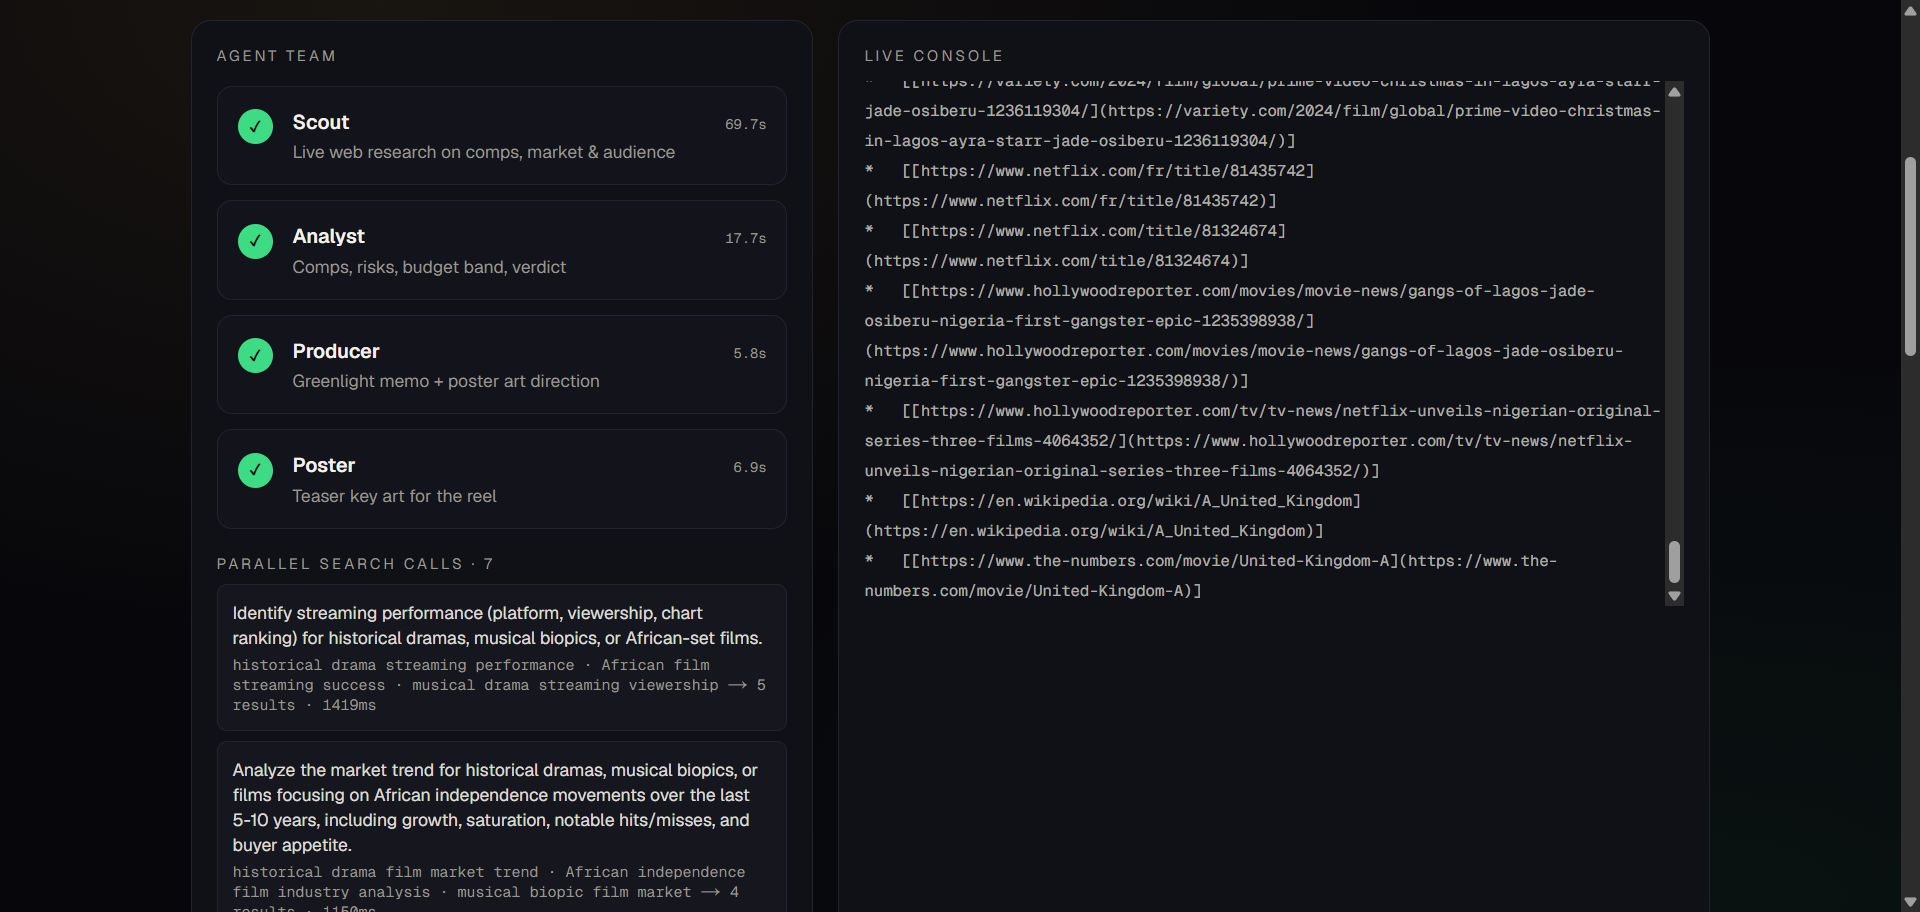
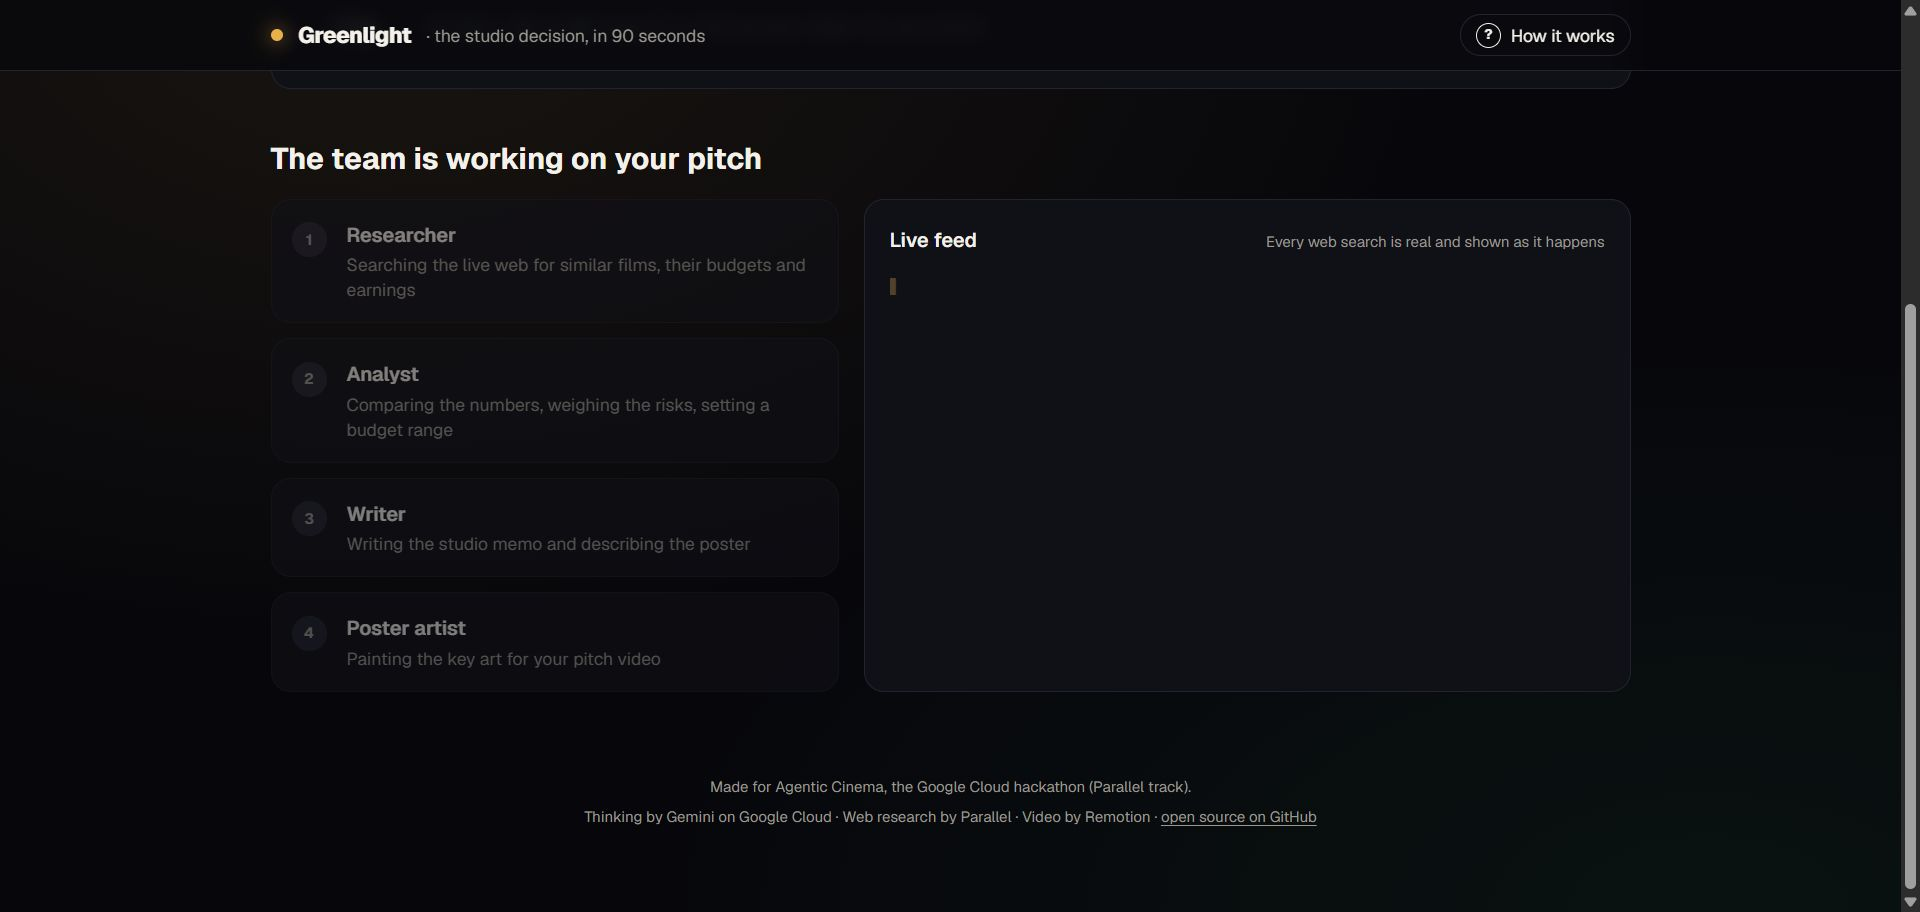
README: new UI screenshots
Claude-Session: https://claude.ai/code/session_01Gt7w4fnYYkp2GYoWzrAMJY

diff --git a/README.md b/README.md
@@ -8,7 +8,9 @@ Built for **Agentic Cinema: The Blockbuster Hackathon** (Google Cloud × Devpost
 - **Demo video:** _YouTube — added at submission_
 - **License:** MIT
 
-![Verdict banner and the Remotion pitch reel playing over Gemini-generated key art](docs/screenshots/verdict-reel.jpeg)
+![Home: pitch a film in one sentence, three steps, examples](docs/screenshots/home.jpeg)
+
+![Verdict card and the Remotion pitch reel playing over Gemini-generated key art, with one-click MP4 download](docs/screenshots/verdict-reel.jpeg)
 
 ![The agent team and live console: every Parallel search shown as it happens](docs/screenshots/agents-console.jpeg)
 
